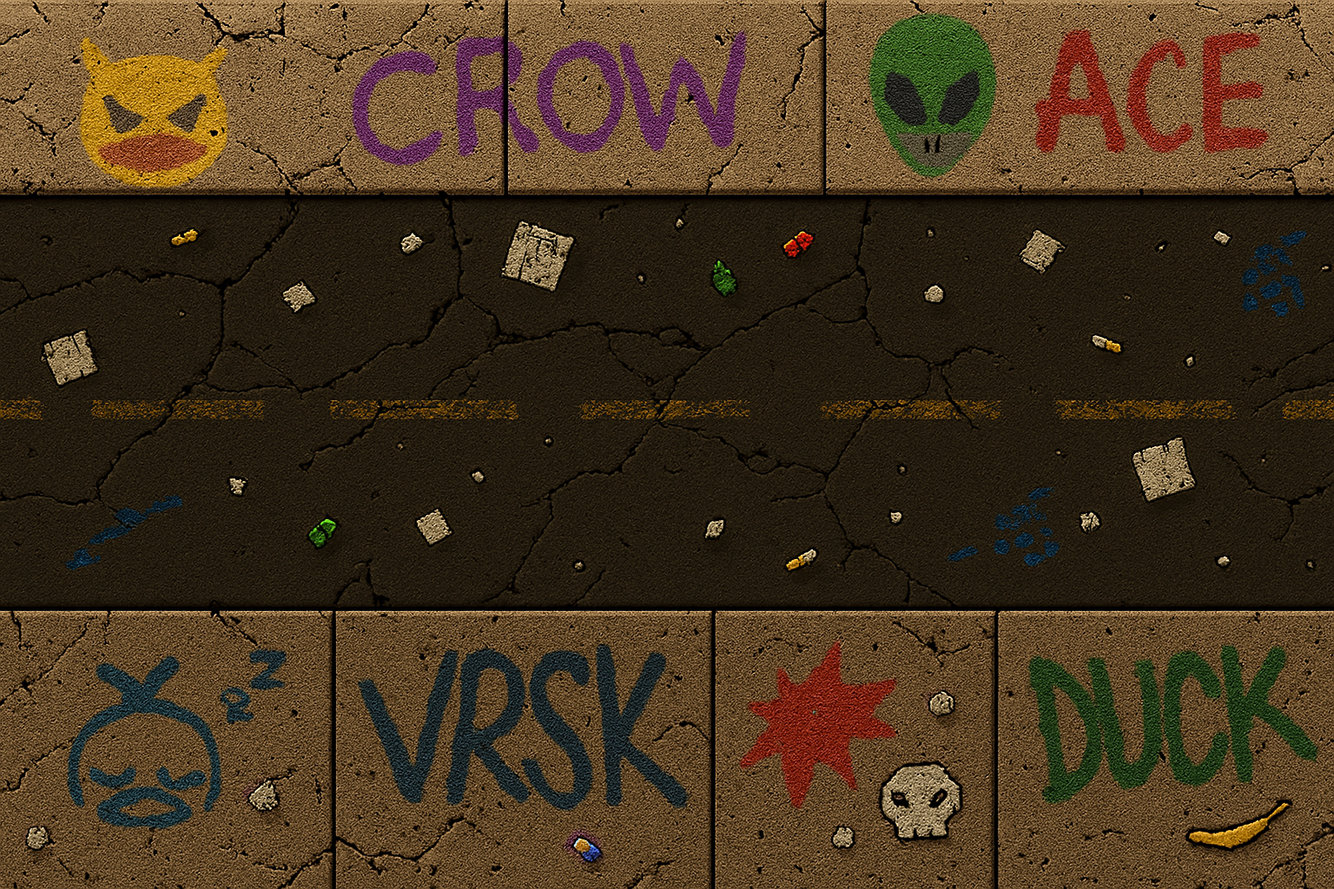
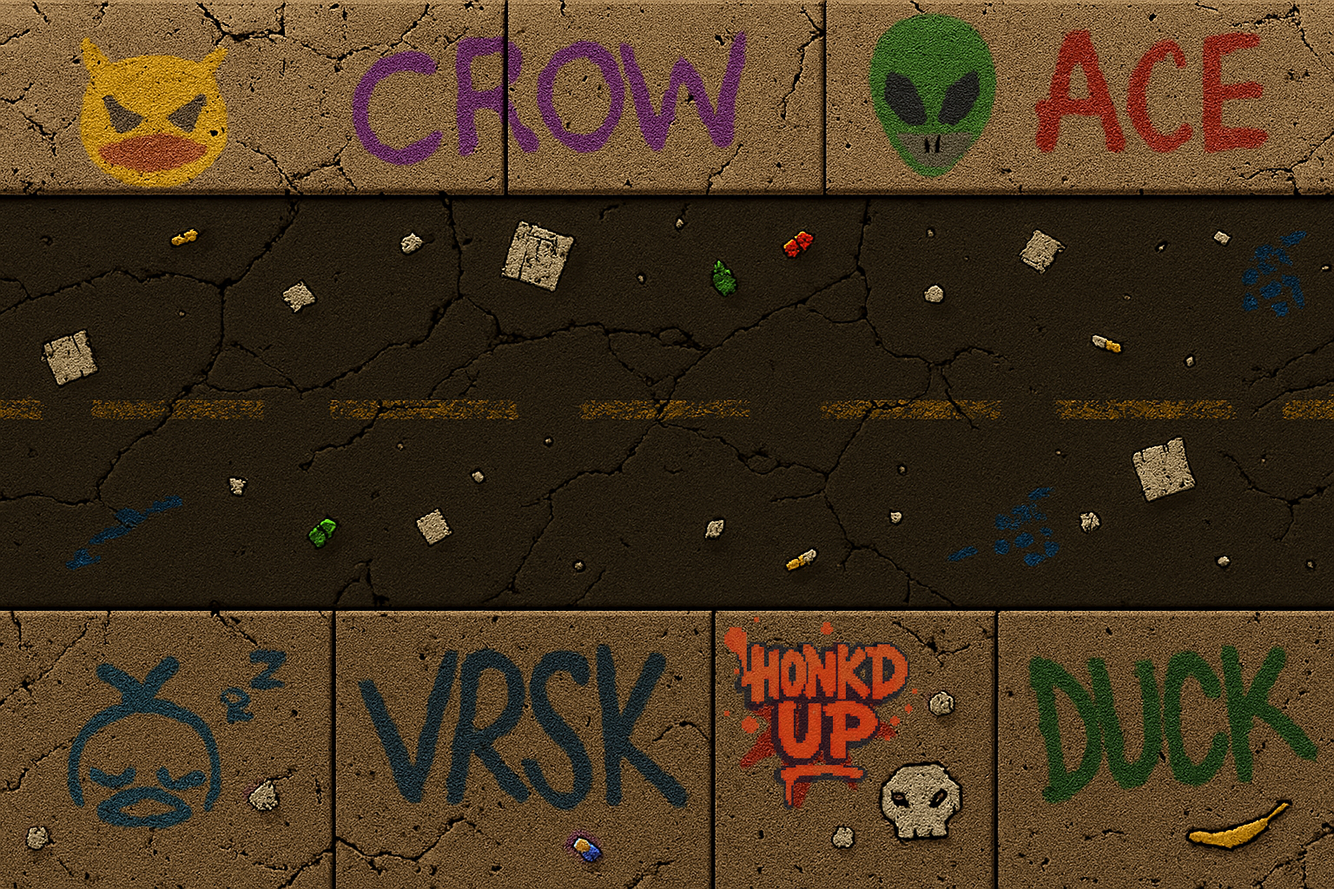
Explosive shot and Duck Dynasty tweaks

Changed region(s): [[0.5312, 0.6875, 0.6875, 0.9062]]

diff --git a/QuackNoirTest-New.html b/QuackNoirTest-New.html
@@ -398,6 +398,17 @@
             swanLaserImg.onerror = ()=>{ console.warn('[BulletImage] Failed to load assets/bullets/swanlaser.png'); swanLaserImg._broken = true; };
             swanLaserImg.src = 'assets/bullets/swanlaser.png';
             window._bulletImages.swanlaser = swanLaserImg;
+            // Duck Dynasty bullet sprites (randomized per-projectile). Vertically flipped when used.
+            for (let __d = 1; __d <= 5; __d++) {
+                try {
+                    const key = 'duck' + __d;
+                    const img = new Image();
+                    img.onload = () => { img._ok = true; };
+                    img.onerror = () => { console.warn('[BulletImage] Failed to load assets/bullets/' + key + '.png'); img._broken = true; };
+                    img.src = 'assets/bullets/' + key + '.png';
+                    window._bulletImages[key] = img;
+                } catch(_) {}
+            }
             // Golden tooth sprite (unlocked by defeating Golden Goose)
             // Defer actual network load until the ability is granted to avoid startup IO overhead.
             const goldToothImg = new Image();
@@ -5091,6 +5102,10 @@
                             ctx.imageSmoothingEnabled = true;
                             // Slight forward offset for laser sprite to feel directional
                             const forwardOffset = (meta && meta.laser) ? -w * 0.24 : -w * 0.1;
+                            // Vertical flip support: some abilities (Duck Dynasty) want sprites flipped vertically
+                            if (meta && meta._flipV) {
+                                try { ctx.scale(1, -1); } catch(_) {}
+                            }
                             try {
                                 if (meta && meta.laser) {
                                     // Mirror sprite horizontally so it visually points forward correctly
@@ -5242,6 +5257,10 @@
                             ctx.imageSmoothingEnabled = true;
                             const forwardOffset = (meta && meta.laser) ? -w * 0.24 : -w * 0.1;
                             try {
+                                // Vertical flip support for abilities like Duck Dynasty
+                                if (meta && meta._flipV) {
+                                    try { ctx.scale(1, -1); } catch(_) {}
+                                }
                                 if (meta && meta.laser) {
                                     ctx.scale(-1, 1);
                                     const foff = -forwardOffset;
@@ -14221,6 +14240,9 @@ function offerPermanentAbilityChoice() {
                         const laneFrac = (i / Math.max(1, flockSize-1));
                         const startX = bandLeft + (bandRight - bandLeft) * laneFrac + (Math.random()-0.5)*30;
                         const sway = (Math.random()*0.4 + 0.6); // amplitude multiplier
+                        // Choose a random duck sprite for this flock member (preloaded in window._bulletImages)
+                        const __duckN = 1 + Math.floor(Math.random()*5);
+                        const __duckKey = 'duck' + __duckN;
                         game.duckFlocks.push({
                             mode:'swoop',
                             t:0, tMax: duration,
@@ -14236,7 +14258,10 @@ function offerPermanentAbilityChoice() {
                             hitIds: new Set(),
                             color: (Math.random()<0.5?'#FFD74A':'#FFECA0'),
                             wingPhase: Math.random()*Math.PI*2,
-                            swayAmp: sway * (20 + Math.random()*14)
+                            swayAmp: sway * (20 + Math.random()*14),
+                            // Visual: optional sprite key and vertical flip flag so renderer can draw an image
+                            spriteKey: __duckKey,
+                            _flipV: true
                         });
                     }
                     // Telegraph: falling feathers / sparks near top (perf-aware)
@@ -15411,6 +15436,20 @@ function offerPermanentAbilityChoice() {
                     if (eff.areaEffect) meta.areaEffect = true;
                 });
                 if (chosenDamageType) meta.damageType = chosenDamageType;
+                // If player has Duck Dynasty ability, prefer randomized duck sprite visuals for these projectiles
+                try {
+                    // Only apply Duck Dynasty visuals to non-enemy/projectiles originating from the player
+                    if (game.player && Array.isArray(game.player.abilities) && game.player.abilities.includes('Duck Dynasty')) {
+                        const isEnemyProj = (t && t.enemy) || (meta && meta.enemy);
+                        if (!isEnemyProj && !meta.spriteKey && !meta.goldTooth && !meta.laser) {
+                            const n = 1 + Math.floor(Math.random() * 5);
+                            meta.spriteKey = 'duck' + n;
+                            // Internal flag used by renderer to vertically flip these duck sprites
+                            meta._flipV = true;
+                        }
+                        meta.duckDynasty = true;
+                    }
+                } catch(_) {}
                 // Choose weapon visual type for the BASE projectile
                 // Rule: randomize among owned NON-sword melee weapons so sword never suppresses them.
                 // If Sword Throw is owned, we spawn an extra sword projectile separately (handled below).
@@ -24991,10 +25030,36 @@ function offerPermanentAbilityChoice() {
                 }
             }
             
-            // Duck Dynasty flock rendering (beneath projectile layer, above ground telegraphs)
+                // Duck Dynasty flock rendering (beneath projectile layer, above ground telegraphs)
             if (Array.isArray(game.duckFlocks) && game.duckFlocks.length) {
                 game.duckFlocks.forEach(d => {
                     if (d.x == null || d.y == null) return;
+                    // If a sprite is assigned and loaded, draw it; otherwise fall back to vector draw
+                    const imgKey = d.spriteKey || null;
+                    const img = (imgKey && window._bulletImages) ? window._bulletImages[imgKey] : null;
+                    if (img && (img._ok || (img.complete && img.naturalWidth))) {
+                        ctx.save();
+                        ctx.translate(d.x, d.y);
+                        // Keep sprite upright for image draw (don't rotate by motion)
+                        if (!d._lx) { d._lx = d.x; d._ly = d.y; }
+                        const mvx = d.x - d._lx; const mvy = d.y - d._ly;
+                        d._lx = d.x; d._ly = d.y;
+                        const ang = 0; // force upright sprite so vertical flip appears consistent while moving
+                        // no rotation applied for image sprites
+                        // Compute draw size from logical d.size while preserving image aspect
+                        const iw = img.naturalWidth || img.width || 32;
+                        const ih = img.naturalHeight || img.height || 32;
+                        const aspect = iw / ih || 1;
+                        // Let width scale with duck size; tweak multiplier for visual fit
+                        const drawW = Math.max(18, (d.size || 20) * 2.4);
+                        const drawH = drawW / aspect;
+                        // Vertical flip support
+                        if (d._flipV) { try { ctx.scale(1, -1); } catch(_) {} }
+                        try { ctx.imageSmoothingEnabled = true; ctx.drawImage(img, -drawW * 0.5, -drawH * 0.5, drawW, drawH); } catch(_) {}
+                        ctx.restore();
+                        return; // skip vector fallback
+                    }
+                    // Vector fallback (legacy drawing) if sprite not available
                     ctx.save();
                     ctx.translate(d.x, d.y);
                     // Orientation based on instantaneous motion (approx using last two positions if cached)
